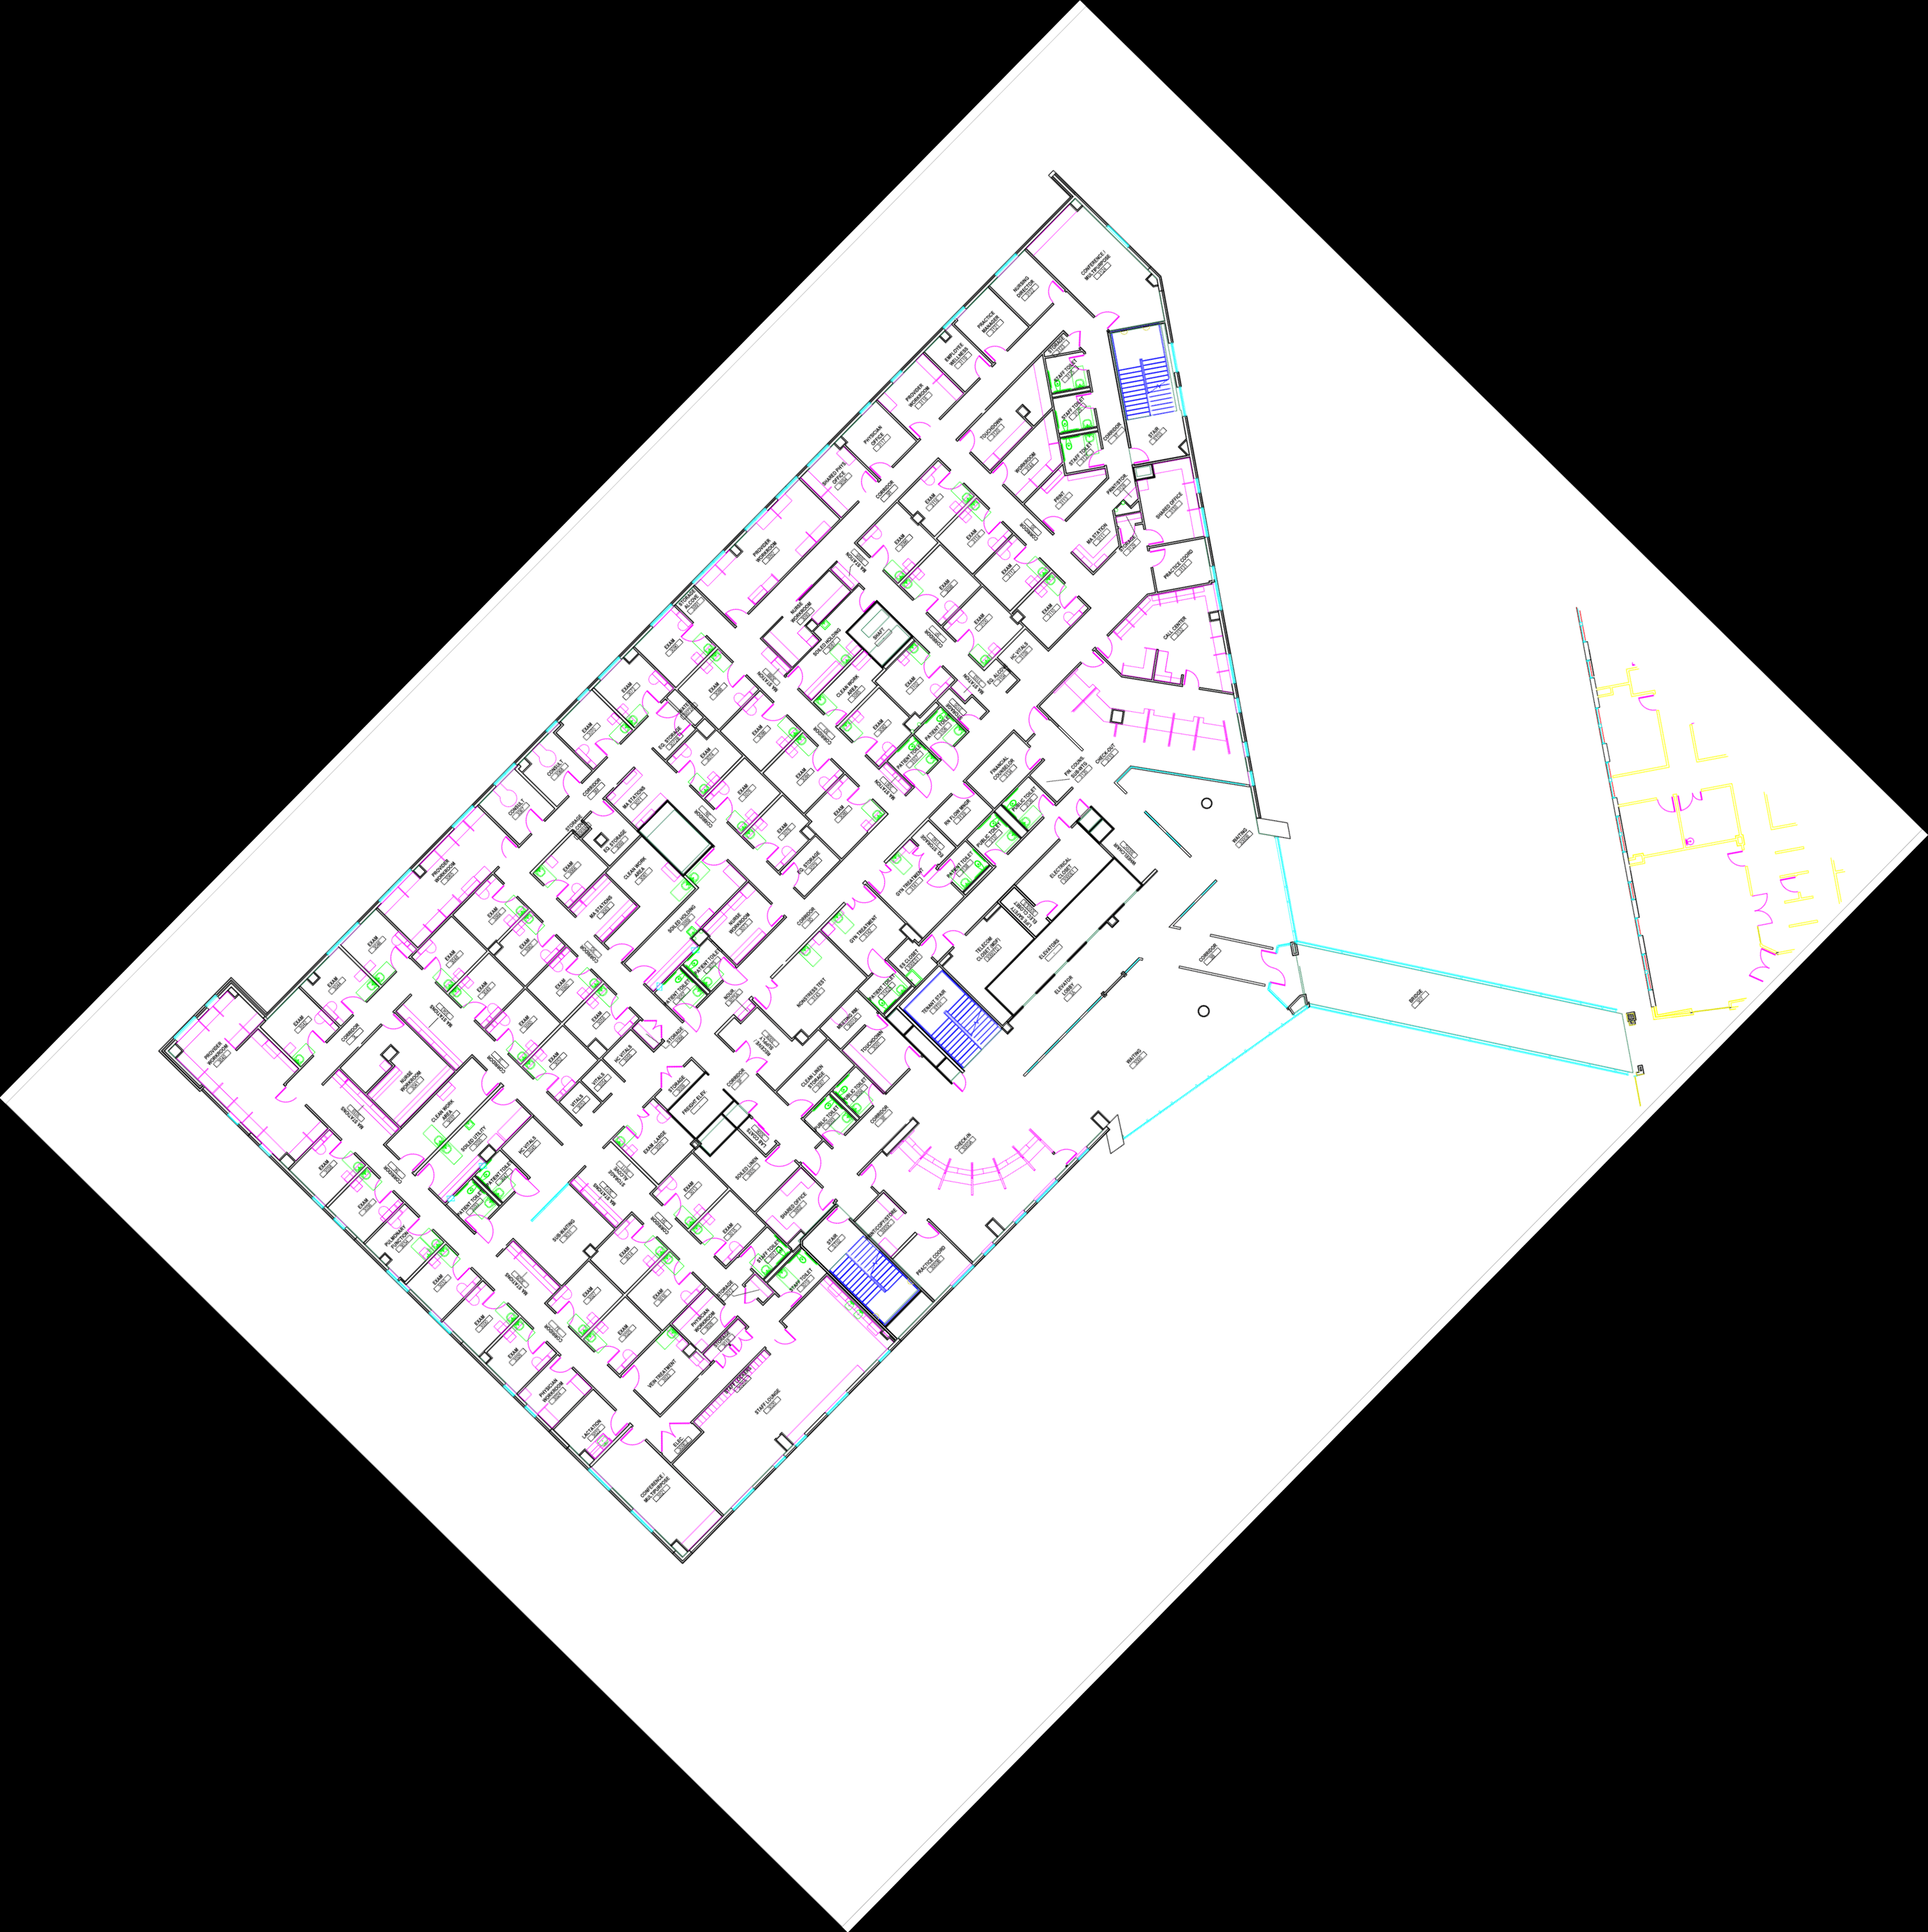
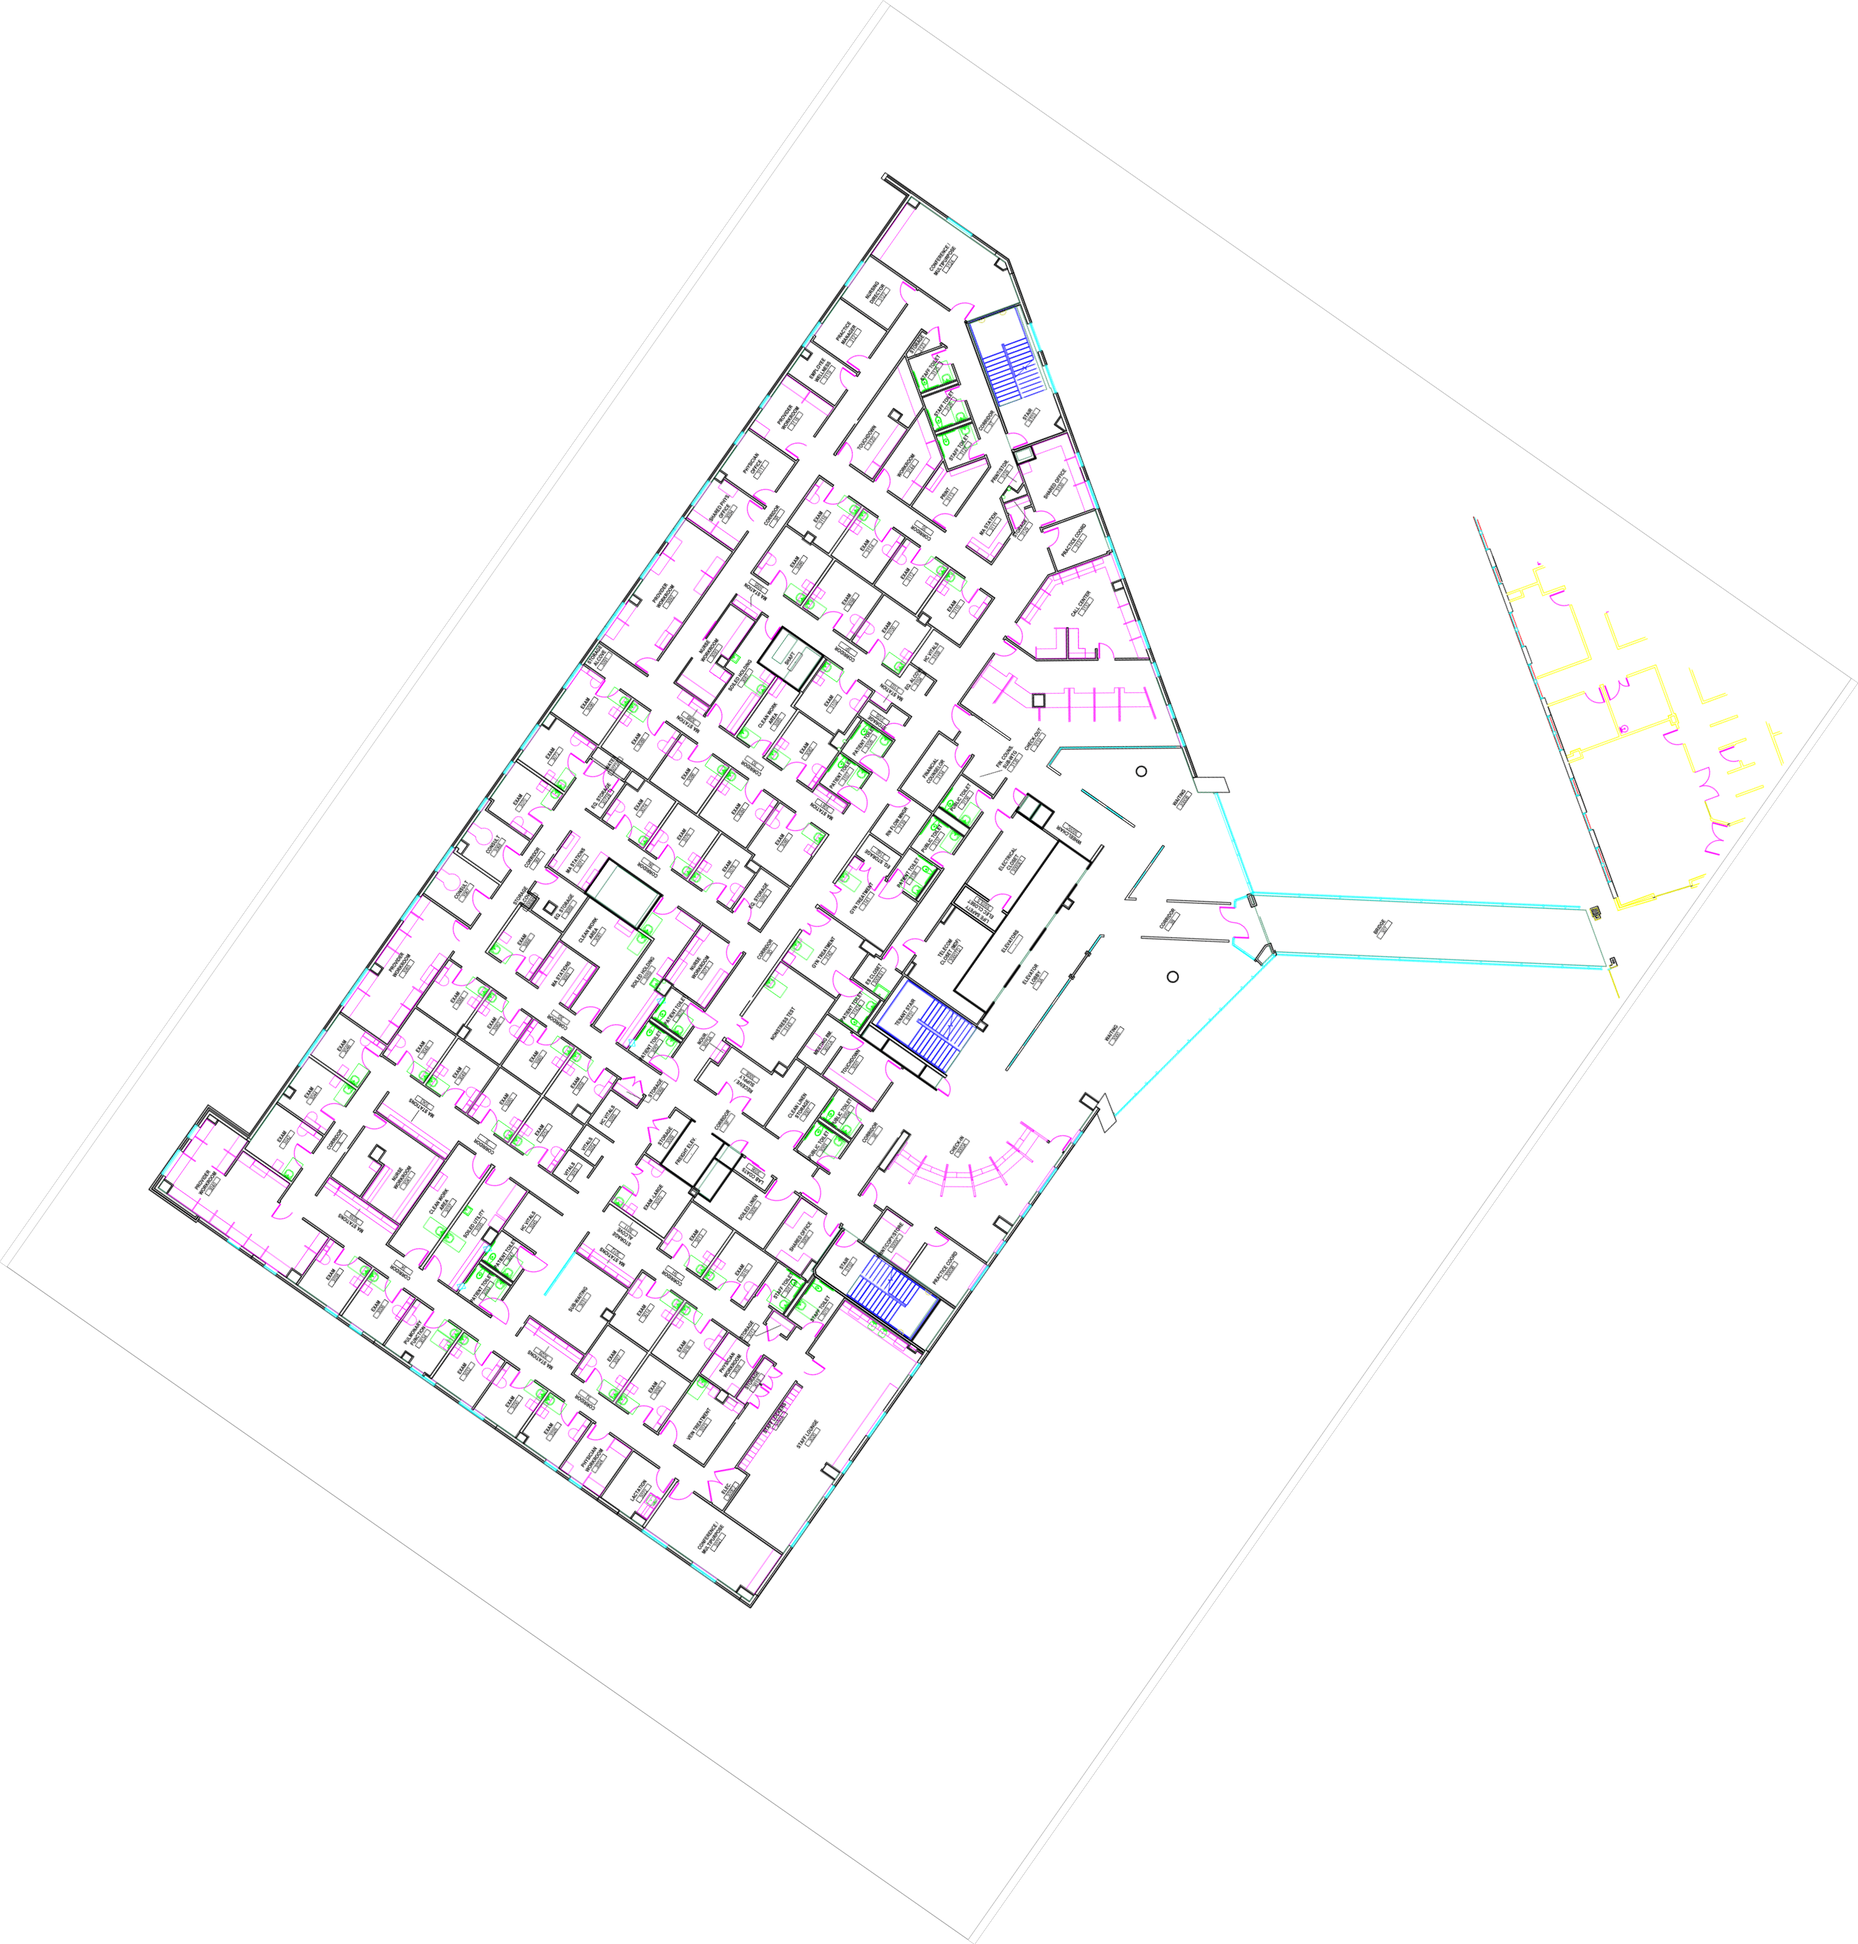
aligned all images. Begin testing on creating markers and hidden markers

diff --git a/apps/frontend/src/components/map/overlays/20PatriotOverlay.tsx b/apps/frontend/src/components/map/overlays/20PatriotOverlay.tsx
@@ -1,6 +1,36 @@
+import floor1OverlayImg from '../../../../assets/pat20_floor1_rotated.png'
+
+export interface Patriot20Overlays {
+    floor1Overlay: google.maps.GroundOverlay;
+}
+
+
 export const createPatriot20Overlays = (map: google.maps.Map) => {
-    // For now, no overlay is available for 20 Patriot Place.
-    // Return null or an empty object.
-    return null;
-  };
-  
+
+    const coordinates: number[] = [42.093430649757835 , 42.0924193258622 , -71.26535172212122 , -71.26674863262852]
+
+    const bounds = {
+        north: coordinates[0],
+        south: coordinates[1],
+        east: coordinates[2],
+        west: coordinates[3],
+    };
+
+    const floor1Overlay = new google.maps.GroundOverlay(
+        floor1OverlayImg,
+        bounds,
+        {opacity: 1}
+    )
+    floor1Overlay.setMap(map);
+
+    return {floor3Overlay: floor1Overlay};
+};
+
+export const updatePatriotPlace22 = (
+    overlays: Patriot20Overlays,
+    selectedFloor: 1
+) => {
+    if (selectedFloor === 1) {
+        overlays.floor1Overlay.setOpacity(1);
+    }
+}

diff --git a/apps/frontend/src/components/map/overlays/22PatriotOverlay.tsx b/apps/frontend/src/components/map/overlays/22PatriotOverlay.tsx
@@ -7,15 +7,16 @@ export interface Patriot22Overlays {
   floor4Overlay: google.maps.GroundOverlay;
 }
 
+
 export const createPatriot22Overlays = (map: google.maps.Map) => {
-  const lats = [42.09422235,  42.09268377,  42.09224102,  42.09278327];
-  const lngs = [-71.26637901, -71.26648763, -71.26704756, -71.26834947];
+
+  const coordinates: number[] = [42.09324331299805 , 42.092057037968154 , -71.26613936182538 , -71.26758041972694]
 
   const bounds = {
-    north: Math.max(...lats),
-    south: Math.min(...lats),
-    east: Math.max(...lngs),
-    west: Math.min(...lngs),
+    north: coordinates[0],
+    south: coordinates[1],
+    east: coordinates[2],
+    west: coordinates[3],
   };
 
   const floor3Overlay = new google.maps.GroundOverlay(

diff --git a/apps/frontend/src/components/map/MapRenderer.tsx b/apps/frontend/src/components/map/MapRenderer.tsx
@@ -24,6 +24,7 @@ const MapRenderer: React.FC<MapRendererProps> = ({ onMapReady, selectedDestinati
   const [parkingOverlay, setParkingOverlay] = useState<google.maps.GroundOverlay | null>(null);
   const [floorOverlay, setFloorOverlay] = useState<google.maps.GroundOverlay | null>(null);
   const [patriot22Overlays, setPatriot22Overlays] = useState<Patriot22Overlays | null>(null);
+  const [patriot20Overlays, setPatriot20Overlays] = useState<Patriot22Overlays | null>(null);
   const apiKey = import.meta.env.VITE_GOOGLE_MAPS_API_KEY;
 
   // Refs to track current opacity (for fade animation)

diff --git a/apps/frontend/src/components/map/DestinationDropdown.tsx b/apps/frontend/src/components/map/DestinationDropdown.tsx
@@ -16,7 +16,7 @@ const destinations = [
   },
   {
     name: "20 Patriot Place",
-    location: { lat: 42.0909, lng: -71.2644 }
+    location: { lat: 42.09236331125932, lng:  -71.26640880069897 }
   },
   {
     name: "22 Patriot Place",
